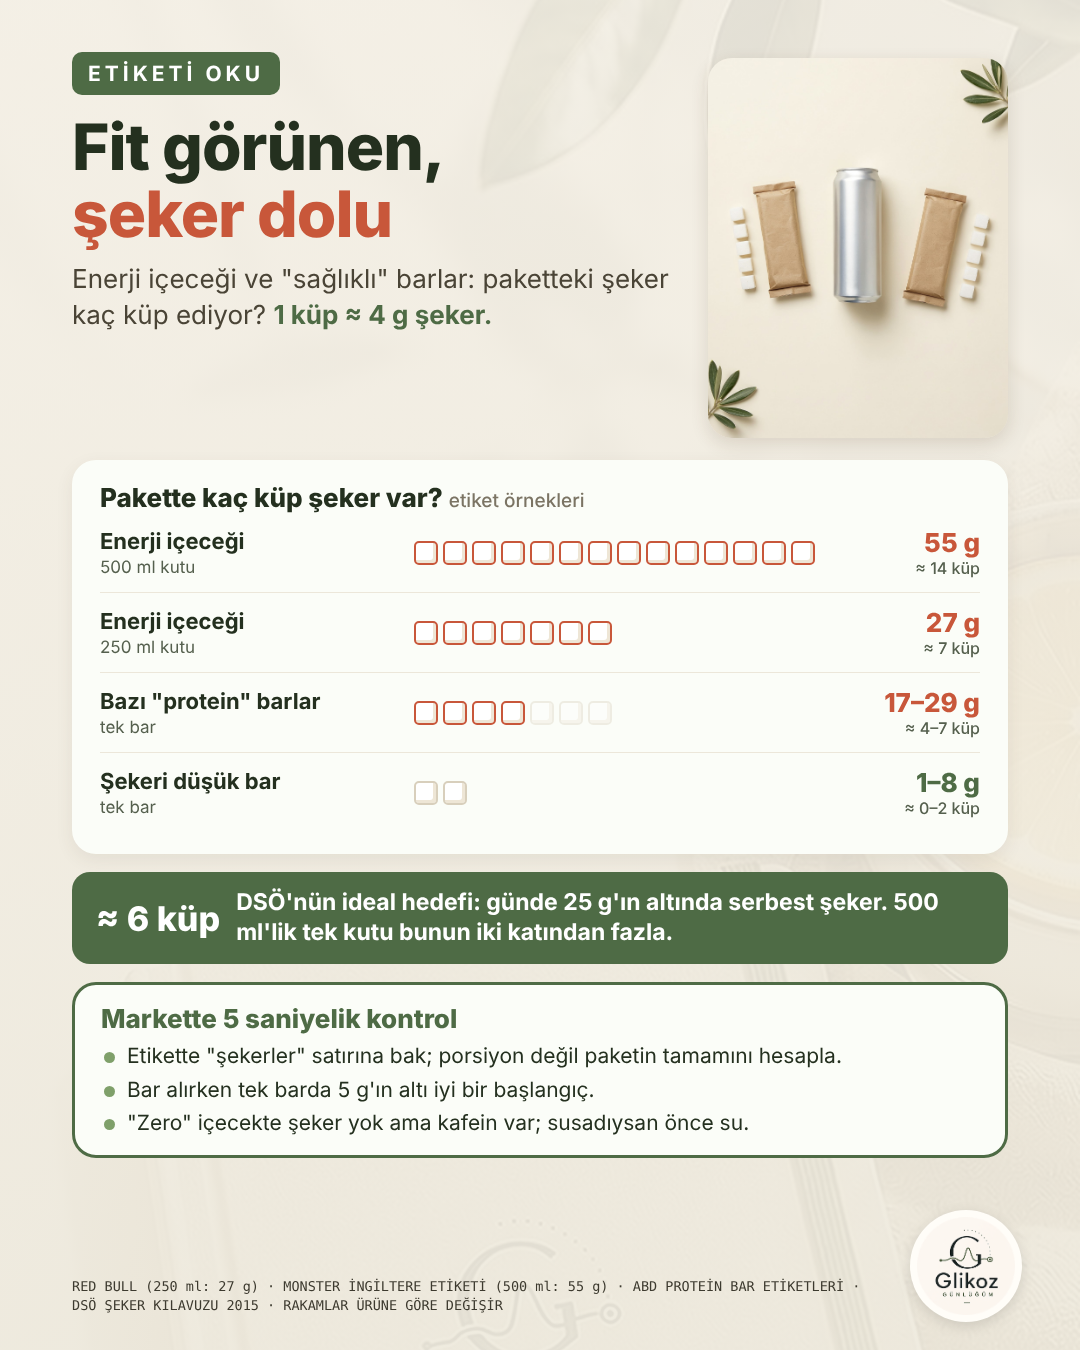
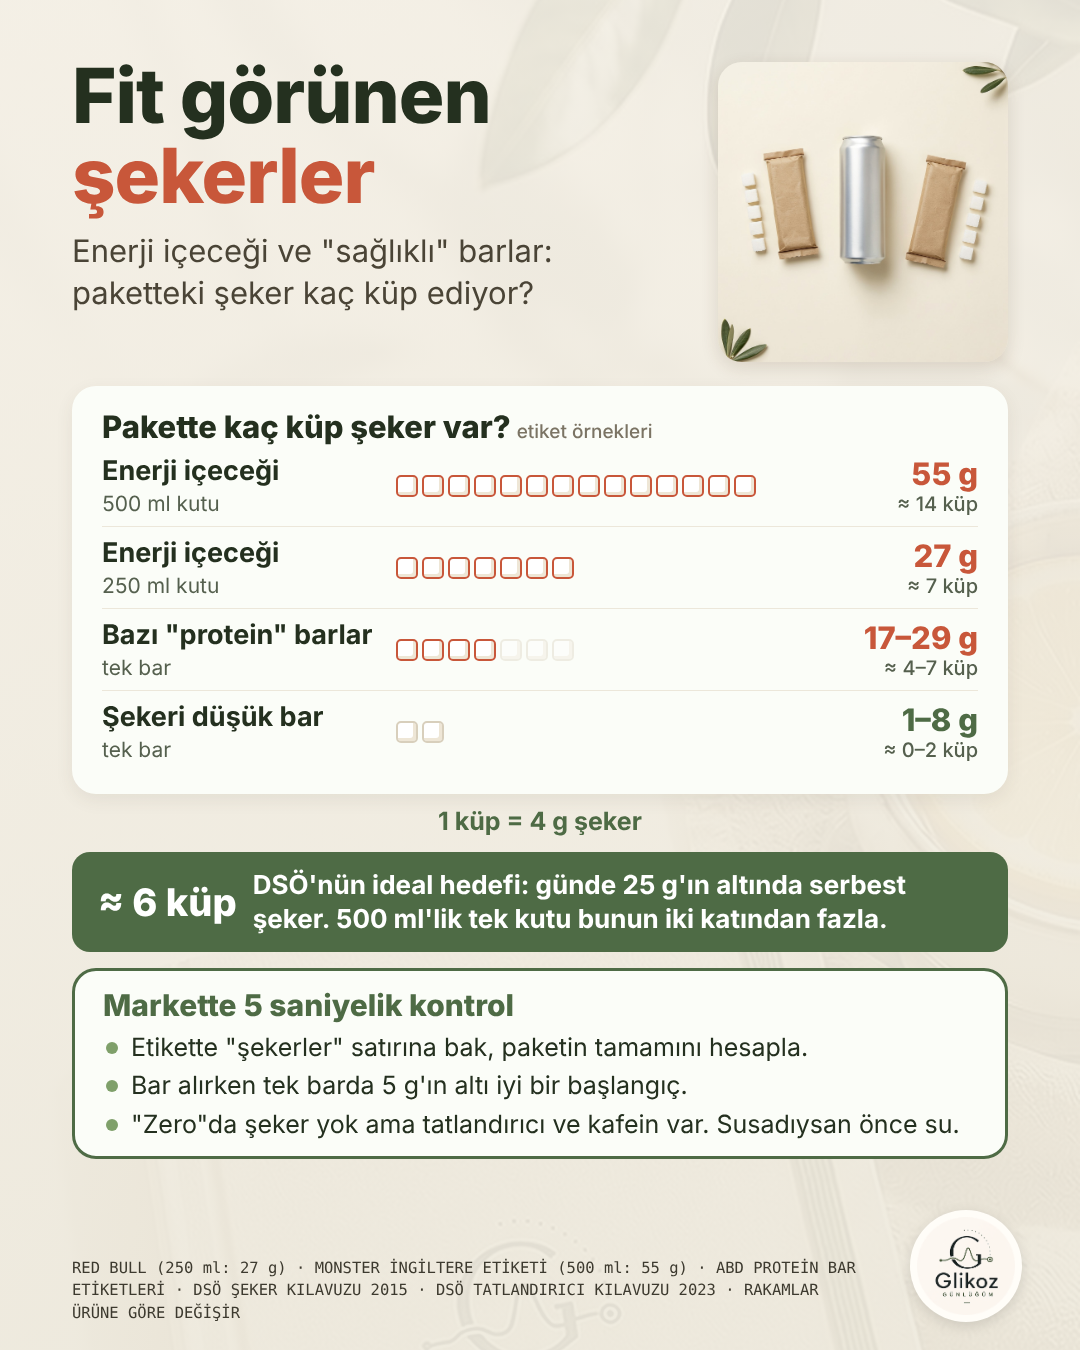
Fit bar infografiği: başlık, büyük yazılar, küp notu, zero satırı
Claude-Session: https://claude.ai/code/session_01PodALZMEvychGr3nMFJPBx

diff --git a/infografik/fit-bar-enerji/fit-bar.html b/infografik/fit-bar-enerji/fit-bar.html
@@ -1,8 +1,8 @@
 <!DOCTYPE html><html lang="tr"><head><meta charset="utf-8"><link rel="stylesheet" href="style.css"></head><body>
 <div class="veil"></div><div class="wrap">
-<div class="hero"><header><div class="tag">ETİKETİ OKU</div>
-<h1>Fit görünen,<br><em>şeker dolu</em></h1>
-<p class="sub">Enerji içeceği ve "sağlıklı" barlar: paketteki şeker kaç küp ediyor? <b class="nw">1 küp ≈ 4 g şeker.</b></p></header>
+<div class="hero"><header>
+<h1>Fit görünen<br><em>şekerler</em></h1>
+<p class="sub">Enerji içeceği ve "sağlıklı" barlar: paketteki şeker kaç küp ediyor?</p></header>
 <div class="pic"><img src="foto.jpg" style="object-position:center 50%"></div></div>
 <div class="card"><h2>Pakette kaç küp şeker var?<small>etiket örnekleri</small></h2>
  <div class="row"><div class="l">Enerji içeceği<span>500 ml kutu</span></div><div class="cubes"><i class="c r"></i><i class="c r"></i><i class="c r"></i><i class="c r"></i><i class="c r"></i><i class="c r"></i><i class="c r"></i><i class="c r"></i><i class="c r"></i><i class="c r"></i><i class="c r"></i><i class="c r"></i><i class="c r"></i><i class="c r"></i></div><div class="v r">55 g<small>≈ 14 küp</small></div></div>
@@ -10,11 +10,12 @@
  <div class="row"><div class="l">Bazı "protein" barlar<span>tek bar</span></div><div class="cubes"><i class="c r"></i><i class="c r"></i><i class="c r"></i><i class="c r"></i><i class="c f"></i><i class="c f"></i><i class="c f"></i></div><div class="v r">17–29 g<small>≈ 4–7 küp</small></div></div>
  <div class="row"><div class="l">Şekeri düşük bar<span>tek bar</span></div><div class="cubes"><i class="c"></i><i class="c"></i></div><div class="v g">1–8 g<small>≈ 0–2 küp</small></div></div>
 </div>
+<p class="note">1 küp = 4 g şeker</p>
 <div class="limit"><b>≈ 6 küp</b><span>DSÖ'nün ideal hedefi: günde 25 g'ın altında serbest şeker. 500 ml'lik tek kutu bunun iki katından fazla.</span></div>
 <div class="tips"><h2>Markette 5 saniyelik kontrol</h2><ul>
-<li>Etikette "şekerler" satırına bak; porsiyon değil paketin tamamını hesapla.</li>
+<li>Etikette "şekerler" satırına bak, paketin tamamını hesapla.</li>
 <li>Bar alırken tek barda 5 g'ın altı iyi bir başlangıç.</li>
-<li>"Zero" içecekte şeker yok ama kafein var; susadıysan önce su.</li></ul></div>
+<li>"Zero"da şeker yok ama tatlandırıcı ve kafein var. Susadıysan önce su.</li></ul></div>
 </div>
-<div class="src">RED BULL (250 ml: 27 g) · MONSTER İNGİLTERE ETİKETİ (500 ml: 55 g) · ABD PROTEİN BAR ETİKETLERİ · DSÖ ŞEKER KILAVUZU 2015 · RAKAMLAR ÜRÜNE GÖRE DEĞİŞİR</div>
+<div class="src">RED BULL (250 ml: 27 g) · MONSTER İNGİLTERE ETİKETİ (500 ml: 55 g) · ABD PROTEİN BAR ETİKETLERİ · DSÖ ŞEKER KILAVUZU 2015 · DSÖ TATLANDIRICI KILAVUZU 2023 · RAKAMLAR ÜRÜNE GÖRE DEĞİŞİR</div>
 <div class="logo"><img src="../../engine/assets/logo.png"></div></body></html>

diff --git a/infografik/fit-bar-enerji/style.css b/infografik/fit-bar-enerji/style.css
@@ -43,3 +43,27 @@ h1 em{font-style:normal;color:var(--tile)}
 .fill{height:100%;border-radius:10px;background:linear-gradient(90deg,#E59A78,#C8573A)}
 .fill.t{background:linear-gradient(90deg,#C8573A,#9E3D24)}
 .brow.tot .l{font-size:25px}
+/* 2026-11-22 revizyon: daha büyük yazılar */
+.hero{padding-top:56px;grid-template-columns:1fr 290px}
+.hero .pic{height:330px}
+h1{font-size:76px;margin-top:0}
+.sub{font-size:31px;line-height:1.36}
+.card{padding:22px 30px}
+.card h2{font-size:31px}
+.row{grid-template-columns:300px 1fr 150px;padding:12px 0}
+.row .l{font-size:27px}.row .l span{font-size:21px}
+.v{font-size:31px}.v small{font-size:20px}
+.note{margin:12px 72px 0;font:700 25px Inter;color:var(--olive);text-align:center}
+.limit{font-size:26px;padding:16px 26px;margin-top:16px}
+.limit b{font-size:38px}
+.tips{padding:16px 28px;margin-top:16px}
+.tips h2{font-size:30px}
+.tips li{font-size:25px;line-height:1.3;padding-left:28px}
+.tips li:before{top:11px;width:12px;height:12px}
+.src{font-size:15.5px;bottom:30px;max-width:800px}
+.hero .pic{height:300px}
+.row{grid-template-columns:280px 1fr 140px;padding:10px 0}
+.c{width:22px;height:22px}.cubes{gap:4px}
+.card{margin-top:24px}
+.tips li{font-size:25px}
+.src{bottom:26px}
